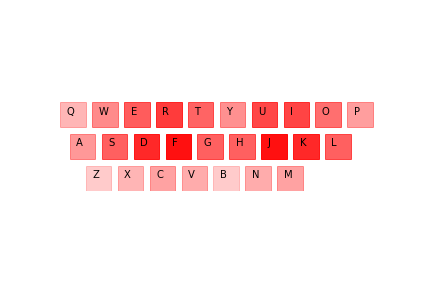
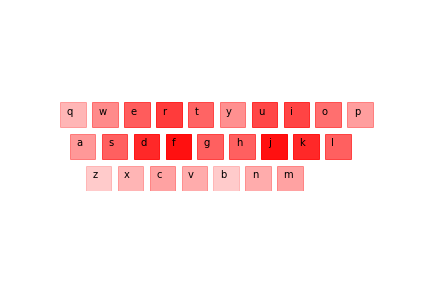
layout_comparison added

diff --git a/empirical/1_code/5_layout_comparison.py b/empirical/1_code/5_layout_comparison.py
@@ -1,0 +1,112 @@
+# coding: utf-8
+
+# Introduction
+
+"""
+Vizuelize two keyboard layouts: standard (QWERTY) vs optimized, using sample text
+"""
+
+NAME = '5_layout_comparison' ## Name of the notebook goes here (without the file extension!)
+PROJECT = 'Optimal_Keyboard_Layout'
+PYTHON_VERSION = '3.6.8'
+
+## Imports
+
+import os, re, math, time
+import matplotlib.pyplot as plt
+import pandas as pd
+import numpy as np
+from matplotlib.patches import Rectangle
+from sklearn.feature_extraction.text import CountVectorizer
+
+## Set working directory
+
+workdir = re.sub("(?<={})[\w\W]*".format(PROJECT), "", os.getcwd())
+os.chdir(workdir)
+
+## Set  up pipeline folder if missing
+
+if os.path.exists(os.path.join('empirical', '2_pipeline')):
+    pipeline = os.path.join('empirical', '2_pipeline', NAME)
+else:
+    pipeline = os.path.join('2_pipeline', NAME)
+
+if not os.path.exists(pipeline):
+    os.makedirs(pipeline)
+    for folder in ['out', 'store', 'tmp']:
+        os.makedirs(os.path.join(pipeline, folder))
+
+# ---------
+# Main code
+# ---------
+
+mapping = pd.read_csv(os.path.join('empirical', '2_pipeline', '4_combine_networks',
+                                    'out', 'pairs.csv'), header=None)
+
+mapping_dict = dict(zip(mapping[0], mapping[1]))
+
+key_dict = dict()
+top = 'qwertyuiop'
+middle = 'asdfghjkl'
+bottom = 'zxcvbnm'
+
+# remapped keys
+m_key_dict = dict()
+m_top = ''.join(list(map(lambda l: mapping_dict[l], top)))
+m_middle = ''.join(list(map(lambda l: mapping_dict[l], middle)))
+m_bottom = ''.join(list(map(lambda l: mapping_dict[l], bottom)))
+
+t = np.linspace(-53, 37, 10)
+for idx, letter in enumerate(zip(top, m_top)):
+    key_dict[letter[0]] = (t[idx], 10)
+    m_key_dict[letter[1]] = (t[idx], 10)
+
+m = np.linspace(-50, 30, 9)
+for idx, letter in enumerate(zip(middle, m_middle)):
+    key_dict[letter[0]] = (m[idx], 0)
+    m_key_dict[letter[1]] = (m[idx], 0)
+
+b = np.linspace(-45, 15, 7)
+for idx, letter in enumerate(zip(bottom, m_bottom)):
+    key_dict[letter[0]] = (b[idx], -10)
+    m_key_dict[letter[1]] = (b[idx], -10)
+
+# sample text for plotting purposes
+sample = pd.read_csv(os.path.join('empirical', '2_pipeline',
+                                       '0_get_corpuses', 'out', 'corpuses.csv'), nrows=1)
+uni_vectorizer = CountVectorizer(analyzer='char', ngram_range=(1,1))
+uni_transformed = uni_vectorizer.fit_transform(sample['corpus'])
+unigrams = pd.DataFrame(uni_transformed.toarray(), columns=uni_vectorizer.get_feature_names()).sum(axis=0)
+unigrams = unigrams/max(unigrams)
+
+
+# FIGURE OUT TITLES
+fig = plt.figure(facecolor='w')
+
+ax1 = fig.add_subplot(211)
+plt.xlim(-55,50)
+plt.ylim(-10,20)
+for k,v in key_dict.items():
+    a = unigrams[k]
+    ax1.add_patch(Rectangle(v, 8, 8, alpha=a, color='red'))
+    plt.text(v[0]+2, v[1]+4, k, color='black')
+plt.axis('off')
+
+ax2 = fig.add_subplot(212)
+plt.xlim(-55,50)
+plt.ylim(-10,20)
+for k,v in m_key_dict.items():
+    a = unigrams[k]
+    ax2.add_patch(Rectangle(v, 8, 8, alpha=a, color='red'))
+    plt.text(v[0]+2, v[1]+4, k, color='black')
+plt.axis('off')
+
+plt.show()
+
+
+# ----------
+# Leftovers
+# ----------
+"""
+Here you leave any code snippets or temporary code that you don't need but don't want to delete just yet
+"""

diff --git a/empirical/1_code/4_combine_networks.py b/empirical/1_code/4_combine_networks.py
@@ -1,0 +1,86 @@
+# coding: utf-8
+
+# Introduction
+
+"""
+Broadcasting one networ onto the other to find an optimal keyboard layout
+"""
+
+NAME = '4_combine_networks'
+PROJECT = 'Optimal_Keyboard_Layout'
+PYTHON_VERSION = '3.6.8'
+
+## Imports
+
+import os, re, math, time
+import pickle
+import random
+import pandas as pd
+import networkx as nx
+from progress.bar import Bar
+
+## Set working directory
+
+workdir = re.sub("(?<={})[\w\W]*".format(PROJECT), "", os.getcwd())
+os.chdir(workdir)
+
+## Set  up pipeline folder if missing
+
+if os.path.exists(os.path.join('empirical', '2_pipeline')):
+    pipeline = os.path.join('empirical', '2_pipeline', NAME)
+else:
+    pipeline = os.path.join('2_pipeline', NAME)
+
+if not os.path.exists(pipeline):
+    os.makedirs(pipeline)
+    for folder in ['out', 'store', 'tmp']:
+        os.makedirs(os.path.join(pipeline, folder))
+
+# ---------
+# Main code
+# ---------
+
+Keyboard_net = pickle.load(open(os.path.join('empirical', '2_pipeline', '2_keyboard_layout',
+                                            'out', 'Keyboard_net.p'), 'rb'))
+
+Letters_net = pickle.load(open(os.path.join('empirical', '2_pipeline', '3_letters_graph',
+                                            'out', 'Letters_net.p'), 'rb'))
+
+random.seed('network')
+
+best_score = 0
+best_pairs = {}
+alphabet = list('qwertyuiopasdfghjklzxcvbnm') # Keyboard nodes
+bar = Bar('Processing', max=10000000)
+
+for i in range(10000000):
+    bar.next()
+    shuffled_alphabet = random.sample(alphabet, len(alphabet)) # Letters nodes
+    pairs = dict(zip(alphabet, shuffled_alphabet)) # Broadcast letters onto keyboard network
+
+    Relabeled_layout = nx.relabel_nodes(Keyboard_net, pairs)
+
+    scores_dict = {}
+
+    for k, l in pairs.items():
+        s = sum(Letters_net[l][edge]['weight'] * Relabeled_layout[k][edge]['weight'] \
+            for edge in Relabeled_layout[k].keys() \
+            if edge in Letters_net[l])
+        scores_dict[k+l] = s + (Letters_net._node[l]['size']*Relabeled_layout._node[k]['size'])*5
+    scores_Series = pd.Series(scores_dict)
+    if scores_Series.sum() > best_score:
+        best_score = scores_Series.sum()
+        best_pairs = pd.Series(pairs)
+
+best_pairs.to_csv(os.path.join(pipeline, 'out', 'pairs.csv'))
+
+# ----------
+# Leftovers
+# ----------
+"""
+Here you leave any code snippets or temporary code that you don't need but don't want to delete just yet
+
+Letters_net['b'][edge.lower()]['weight'] * Keyboard_net['A'][edge]['weight']
+ if edge in Letters_net['b']
+sum(Letters_net['b'][edge.lower()]['weight'] * Keyboard_net['A'][edge]['weight'] for edge in Keyboard_net['A'].keys() if edge.lower() in Letters_net['b'])
+"""

diff --git a/empirical/1_code/2_keyboard_layout.py b/empirical/1_code/2_keyboard_layout.py
@@ -42,9 +42,9 @@ if not os.path.exists(pipeline):
 # ---------
 
 key_dict = dict()
-top = 'QWERTYUIOP'
-middle = 'ASDFGHJKL'
-bottom = 'ZXCVBNM'
+top = 'qwertyuiop'
+middle = 'asdfghjkl'
+bottom = 'zxcvbnm'
 
 t = (t for t in np.linspace(-53, 37, 10))
 for letter in top:
@@ -85,7 +85,7 @@ fig.savefig(os.path.join(pipeline, 'out', 'keyboard_layout.png'), facecolor='w')
 Keyboard_net = nx.Graph()
 
 for K, V in key_dict.items():
-    Keyboard_net.add_node(K, size=V[2])
+    Keyboard_net.add_node(K, size=V[2]**3)
     for k, v in key_dict.items():
         if V[0] < v[0] and V[0] + 10 > v[0] and V[1] == 0: # 'V' Key to the left
             if V[1] - v[1] == 10: # 'V' Key above
@@ -108,17 +108,17 @@ for K, V in key_dict.items():
 
 
 # Delete unnecessary connections
-Keyboard_net.remove_edge('T', 'Y')
-Keyboard_net.remove_edge('G', 'H')
-Keyboard_net.remove_edge('B', 'N')
-Keyboard_net.remove_edge('Y', 'G')
-Keyboard_net.remove_edge('H', 'B')
+Keyboard_net.remove_edge('t', 'y')
+Keyboard_net.remove_edge('g', 'h')
+Keyboard_net.remove_edge('b', 'n')
+Keyboard_net.remove_edge('y', 'g')
+Keyboard_net.remove_edge('h', 'b')
 
 pickle.dump(Keyboard_net, open(os.path.join(pipeline, 'out', 'Keyboard_net.p'), 'wb'))
 
 #vizualize network
 fig = plt.figure(facecolor='w')
-size = [(nx.degree_centrality(Keyboard_net)[node]+1.5)**12 for node in Keyboard_net.nodes()]
+size = [size*2200 for size in nx.get_node_attributes(Keyboard_net,  'size').values()]
 weigth = [Keyboard_net[edge[0]][edge[1]]['weight']*10 for edge in Keyboard_net.edges()]
 
 pos = {}
@@ -127,7 +127,7 @@ for key, value in key_dict.items():
 
 nx.draw_networkx_nodes(Keyboard_net, pos, node_size=size, edgecolors='black', alpha=0.80)
 nx.draw_networkx_edges(Keyboard_net, pos, width=weigth, alpha=0.50, arrowstyle='simple')
-nx.draw_networkx_labels(Keyboard_net, pos, font_size=15, font_family='helvetica')
+nx.draw_networkx_labels(Keyboard_net, pos, font_size=30, font_family='helvetica')
 plt.axis('off')
 plt.show()
 fig.savefig(os.path.join(pipeline, 'out', 'keyboard_network.png'), facecolor='w')

diff --git a/empirical/1_code/0_get_corpuses.py b/empirical/1_code/0_get_corpuses.py
@@ -62,8 +62,7 @@ def get_text(soup):
             script.extract()
         corpus = regex.sub(' ', soup.get_text()).lower()
         corpus = ''.join(re.findall(r'[a-z]+', corpus))
-        return corpus           
-            
+        return corpus
 
 random.seed('books-corpuses')
 corpuses_df = pd.DataFrame(columns=['url', 'corpus', 'page', 'book'])
@@ -77,7 +76,7 @@ while corpuses_df.shape[0] < num_corpuses:
     page_soup = get_soup(f'idx{page_index}.html')
 
     book_index = random.randint(0, len(page_soup.find_all('a'))-1)
-    
+
     #check if a book is already in the DataFrame
     b1 = corpuses_df['page'] == page_index
     b2 = corpuses_df['book'] == book_index

diff --git a/empirical/1_code/3_letters_graph.py b/empirical/1_code/3_letters_graph.py
@@ -6,7 +6,7 @@
 Building network of letters
 """
 
-NAME = '3_letters_graph' ## Name of the notebook goes here (without the file extension!)
+NAME = '3_letters_graph'
 PROJECT = 'Optimal_Keyboard_Layout'
 PYTHON_VERSION = '3.6.8'
 
